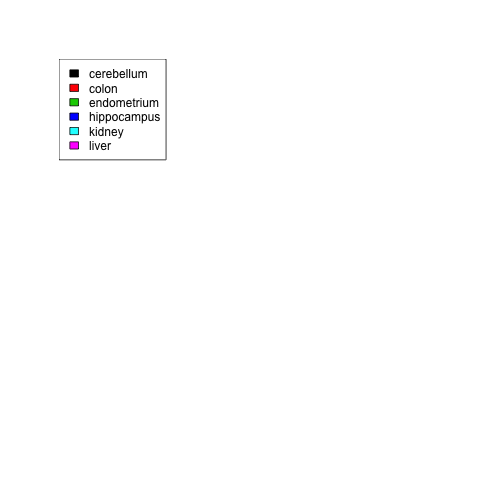
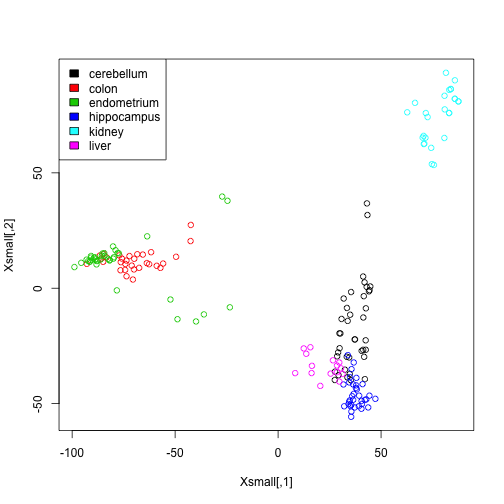
adding crossvalidation to book

diff --git a/pages/crossvalidation.md b/pages/crossvalidation.md
@@ -5,30 +5,13 @@ title: Cross-validation
 
 
 
-In this lab, we will explore a method for picking parameters in a
-prediction / machine learning task, which is called
-*cross-validation*.
+In this lab, we will explore a method for picking parameters in a prediction / machine learning task, which is called *cross-validation*.
 
-Suppose we have a prediction algorithm which is going to predict the
-class of some observations using a number of features. For example, we
-will use the gene expression values to predict the tissue type in our
-tissues gene expression dataset.
+Suppose we have a prediction algorithm which is going to predict the class of some observations using a number of features. For example, we will use the gene expression values to predict the tissue type in our tissues gene expression dataset.
 
-If this algorithm has a parameter which controls the behavior, we
-might pick the value of this parameter which minimizes the
-classification error. However, trying to classify the same
-observations as we use to *train* the model can be misleading.
-In lecture, we saw that for K-nearest neighbors, using k=1 will always
-give 0 classification error in the training set (because we use the
-single observation to classify itself). Instead, it's better to pick
-the parameter using the algorithms performance on a set of
-observations which the algorithm has never seen, a *test* set.
+If this algorithm has a parameter which controls the behavior, we might pick the value of this parameter which minimizes the classification error. However, trying to classify the same observations as we use to *train* the model can be misleading.  In lecture, we saw that for K-nearest neighbors, using k=1 will always give 0 classification error in the training set (because we use the single observation to classify itself). Instead, it's better to pick the parameter using the algorithms performance on a set of observations which the algorithm has never seen, a *test* set.
 
-Cross-validation is simply a method which splits the data into a
-number of *folds*. If we have N folds, then the algorithm typically
-trains on (N-1) of the folds, and test the algorithms performance on
-the left-out single fold. This is then repeated N times until each
-fold has been used as a *test* set.
+Cross-validation is simply a method which splits the data into a number of *folds*. If we have N folds, then the algorithm typically trains on (N-1) of the folds, and test the algorithms performance on the left-out single fold. This is then repeated N times until each fold has been used as a *test* set.
 
 Let's load in the tissue gene expression dataset:
 
@@ -61,15 +44,7 @@ y <- tissue[ind]
 X <- t( e[,ind] )
 ```
 
-We will use the `createFolds` function from the `caret` 
-package to make 5 folds of the data, which are
-balanced over the tissues. Don't be confused that the 
-`createFolds` function uses the same letter 'k' as the k in 
-K-nearest neighbors. These 'k' are unrelated. 
-The caret function `createFolds` is
-asking for how many folds to create, the 'N' from above. The `knn`
-function is asking how many closest observations to use to classify
-the test observations.
+We will use the `createFolds` function from the `caret` package to make 5 folds of the data, which are balanced over the tissues. Don't be confused that the `createFolds` function uses the same letter 'k' as the k in K-nearest neighbors. These 'k' are unrelated.  The caret function `createFolds` is asking for how many folds to create, the 'N' from above. The `knn` function is asking how many closest observations to use to classify the test observations.
 
 
 ```r
@@ -79,32 +54,24 @@ library(caret)
 ```
 
 ```
-## Loading required package: lattice
-## Loading required package: ggplot2
-## Loading required package: methods
+## Error in library(caret): there is no package called 'caret'
 ```
 
 ```r
 set.seed(1)
 idx <- createFolds(y, k=10)
+```
+
+```
+## Error in eval(expr, envir, enclos): could not find function "createFolds"
+```
+
+```r
 sapply(idx, function(i) table(y[i]))
 ```
 
 ```
-##             Fold01 Fold02 Fold03 Fold04 Fold05 Fold06 Fold07 Fold08 Fold09
-## cerebellum       3      4      4      4      4      4      4      4      4
-## colon            4      3      3      3      4      4      3      3      4
-## endometrium      2      2      1      1      1      2      1      2      2
-## hippocampus      3      3      3      3      3      3      4      3      3
-## kidney           4      4      3      4      4      4      4      4      4
-## liver            2      3      3      2      2      3      3      3      3
-##             Fold10
-## cerebellum       3
-## colon            3
-## endometrium      1
-## hippocampus      3
-## kidney           4
-## liver            2
+## Error in lapply(X = X, FUN = FUN, ...): object 'idx' not found
 ```
 
 
@@ -112,15 +79,16 @@ Because tissues have very different gene expression profiles, predicting tissue 
 
 
 ```r
-Xsmall <- cmdscale(dist(X))
-plot(Xsmall,col=as.fumeric(y))
+library(rafalib)
 ```
 
 ```
-## Error in plot.xy(xy, type, ...): could not find function "as.fumeric"
+## Loading required package: RColorBrewer
 ```
 
 ```r
+Xsmall <- cmdscale(dist(X))
+plot(Xsmall,col=as.fumeric(y))
 legend("topleft",levels(factor(y)),fill=seq_along(levels(factor(y))))
 ```
 
@@ -133,18 +101,18 @@ Now we can try out the K-nearest neighbors method on a single fold:
 library(class)
 i=1
 pred <- knn(train =  Xsmall[ -idx[[i]] , ], test = Xsmall[ idx[[i]], ], cl=  y[ -idx[[i]] ], k=5)
+```
+
+```
+## Error in as.matrix(train): object 'idx' not found
+```
+
+```r
 table(true=y[ idx[[i]] ], pred)
 ```
 
 ```
-##              pred
-## true          cerebellum colon endometrium hippocampus kidney liver
-##   cerebellum           2     0           0           1      0     0
-##   colon                0     4           0           0      0     0
-##   endometrium          0     0           1           0      1     0
-##   hippocampus          1     0           0           2      0     0
-##   kidney               0     0           0           0      4     0
-##   liver                0     0           0           0      0     2
+## Error in table(true = y[idx[[i]]], pred): object 'idx' not found
 ```
 
 ```r
@@ -152,13 +120,10 @@ mean(y[ idx[[i]] ] != pred)
 ```
 
 ```
-## [1] 0.1666667
+## Error in mean(y[idx[[i]]] != pred): object 'idx' not found
 ```
 
-Now we will create a loop, which tries out each value of k from 1 to
-12, and runs the K-nearest neighbors algorithm on each fold. We then
-ask for the proportion of errors for each fold, and report the average
-from the 5 cross-validation folds:
+Now we will create a loop, which tries out each value of k from 1 to 12, and runs the K-nearest neighbors algorithm on each fold. We then ask for the proportion of errors for each fold, and report the average from the 5 cross-validation folds:
 
 
 ```r
@@ -184,6 +149,10 @@ res <- sapply(ks, function(k) {
 })
 ```
 
+```
+## Error in lapply(X = X, FUN = FUN, ...): object 'idx' not found
+```
+
 Now we can plot the mean misclassification rate for each value of k:
 
 
@@ -191,7 +160,9 @@ Now we can plot the mean misclassification rate for each value of k:
 plot(ks, res, type="o")
 ```
 
-![plot of chunk unnamed-chunk-7](figure/crossvalidation-unnamed-chunk-7-1.png) 
+```
+## Error in xy.coords(x, y, xlabel, ylabel, log): object 'res' not found
+```
 
 
 Finally, to show that gene expression can perfectly predict tissue, we use 5 dimensions instead of 2 and note we get perfect prediction
@@ -210,9 +181,18 @@ res <- sapply(ks, function(k) {
   })
   mean(res.k)
 })
+```
+
+```
+## Error in lapply(X = X, FUN = FUN, ...): object 'idx' not found
+```
+
+```r
 plot(ks, res, type="o",ylim=c(0,0.20))
 ```
 
-![plot of chunk unnamed-chunk-8](figure/crossvalidation-unnamed-chunk-8-1.png) 
+```
+## Error in xy.coords(x, y, xlabel, ylabel, log): object 'res' not found
+```
 
 Important note: We applied `cmdscale` to the entire dataset to create a smaller one for illustration purposes. However, in a real machine learning application all transformations of the data must be applied separately on the test and training dataset.
